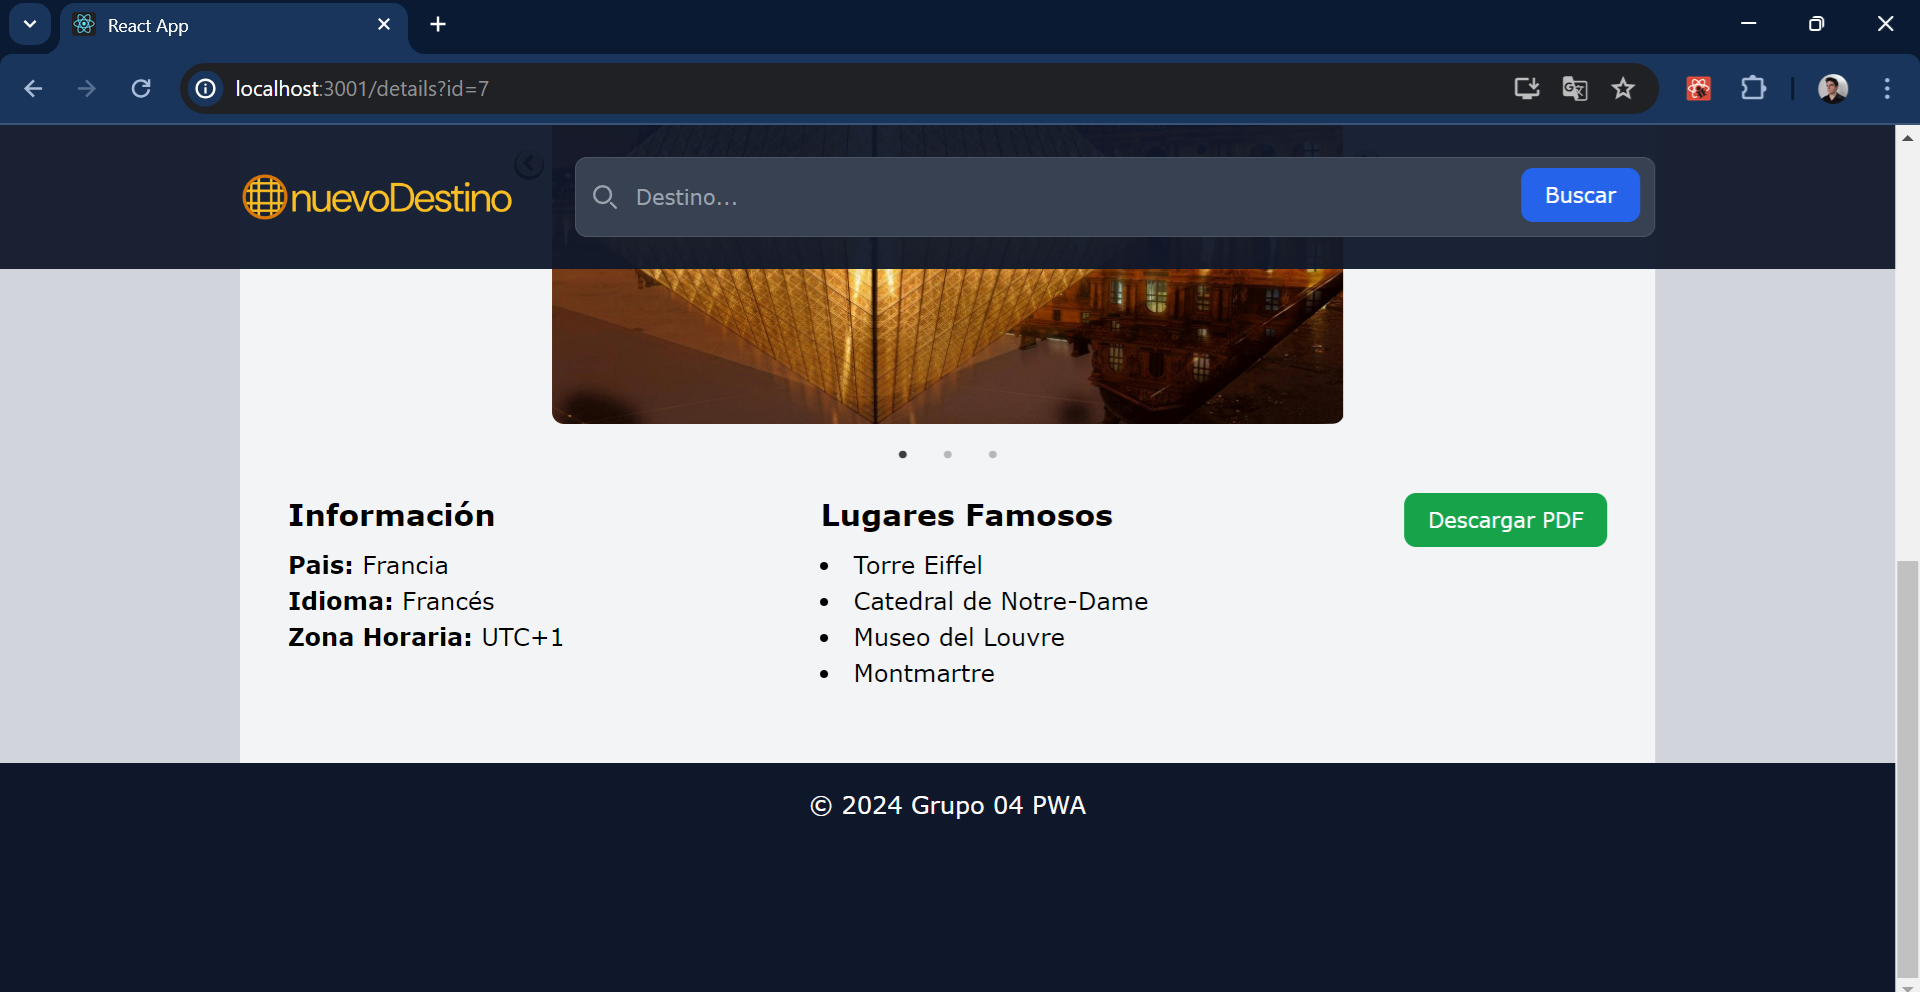
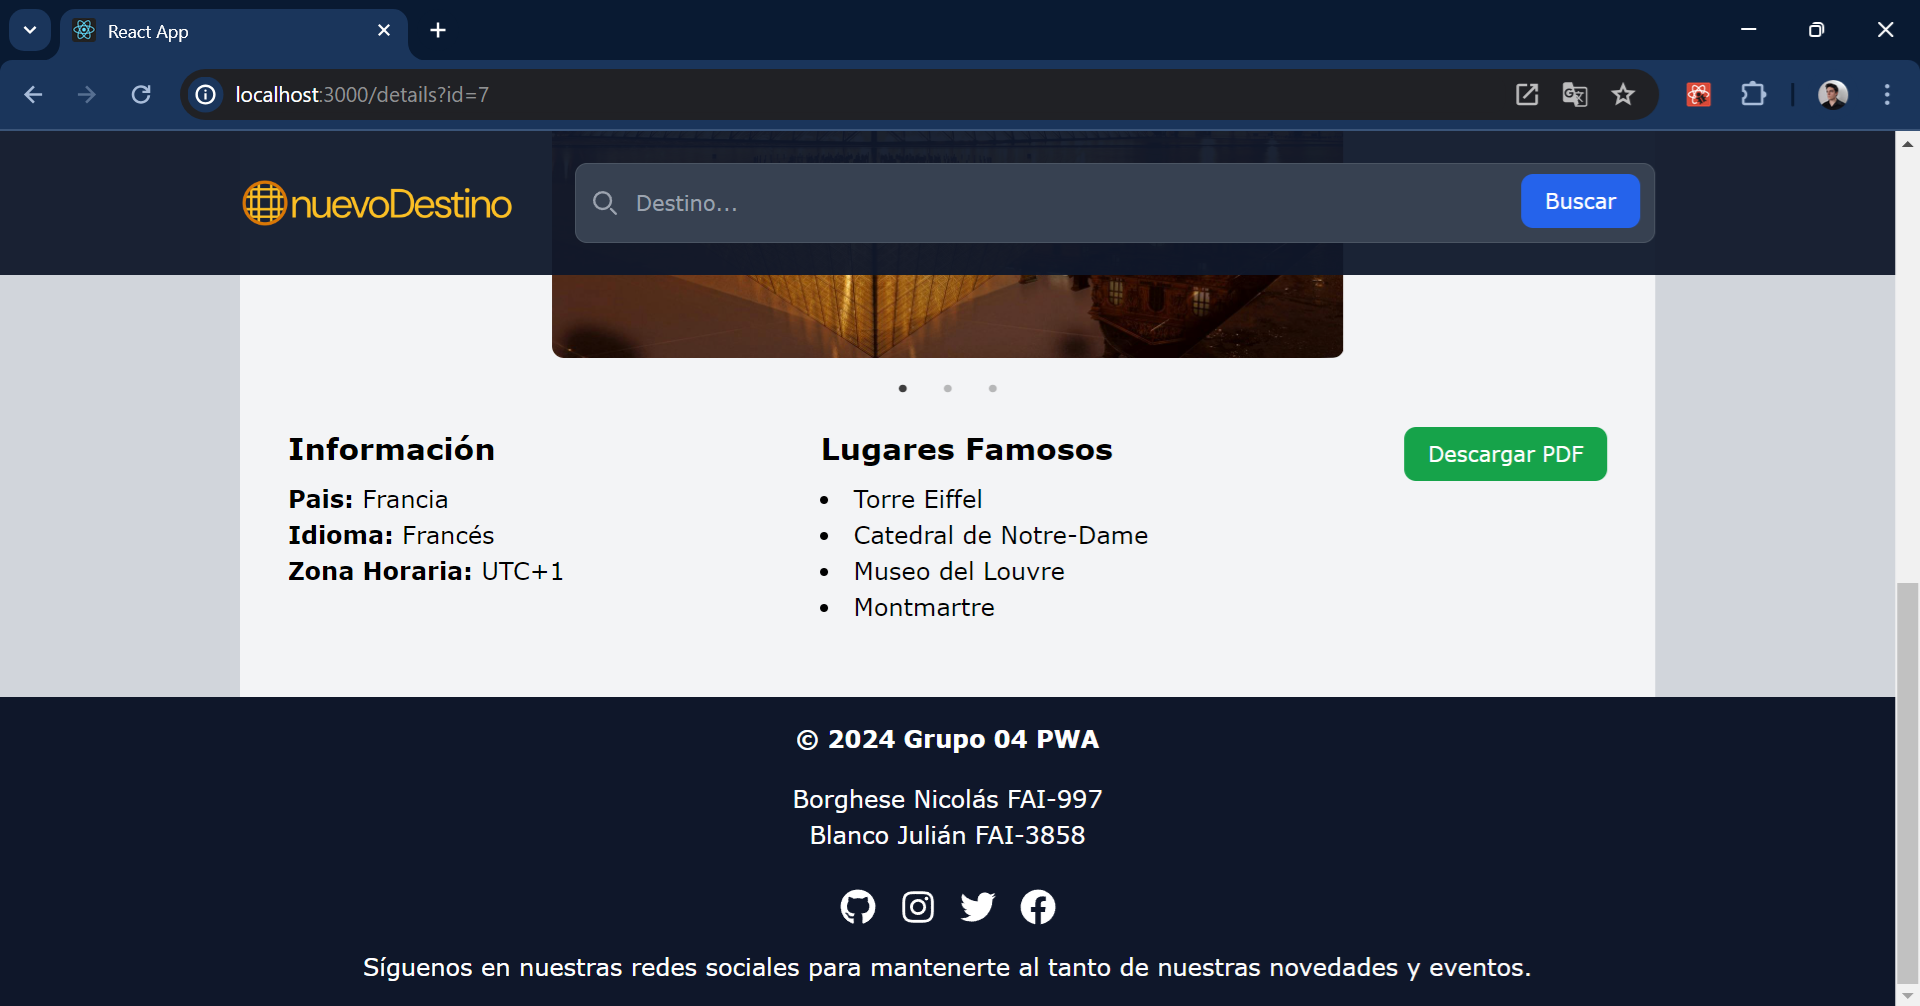
Actualización Footer

diff --git a/src/components/Footer/Footer.jsx b/src/components/Footer/Footer.jsx
@@ -1,8 +1,31 @@
+import { FaGithub, FaInstagram, FaTwitter, FaFacebook } from 'react-icons/fa';
+
 const Footer = () => {
     return (
-        <footer className={"bg-slate-900 text-white flex p-4 h-40"}>
-            <div className={"text-center w-full"}>
-                &copy; 2024 Grupo 04 PWA
+        <footer className={"bg-slate-900 text-white flex flex-col justify-center items-center p-4 h-auto"}>
+            <div className={"text-center mb-6"}>
+                <p className={"mb-4 font-bold"}>&copy; 2024 Grupo 04 PWA</p>
+                <ul>
+                  <li><p>Borghese Nicolás FAI-997</p></li>
+                  <li><p>Blanco Julián FAI-3858</p></li>
+                </ul>
+            </div>
+            <div className={"flex space-x-4"}>
+                <a href="https://github.com/NicolasBorghese/pwa_tp_02_multiples_paginas" className={"text-white hover:text-gray-400"}>
+                    <FaGithub size={24} />
+                </a>
+                <a href="#" className={"text-white hover:text-gray-400"}>
+                    <FaInstagram size={24} />
+                </a>
+                <a href="#" className={"text-white hover:text-gray-400"}>
+                    <FaTwitter size={24} />
+                </a>
+                <a href="#" className={"text-white hover:text-gray-400"}>
+                    <FaFacebook size={24} />
+                </a>
+            </div>
+            <div className={"mt-4"}>
+                <p>Síguenos en nuestras redes sociales para mantenerte al tanto de nuestras novedades y eventos.</p>
             </div>
         </footer>
     );
